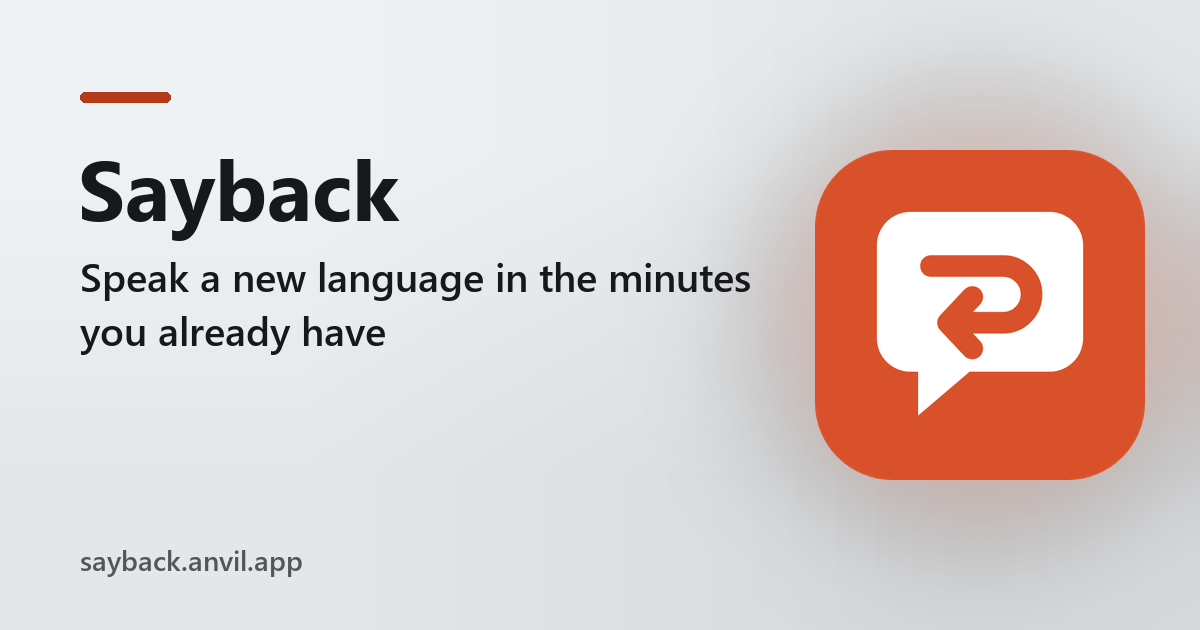
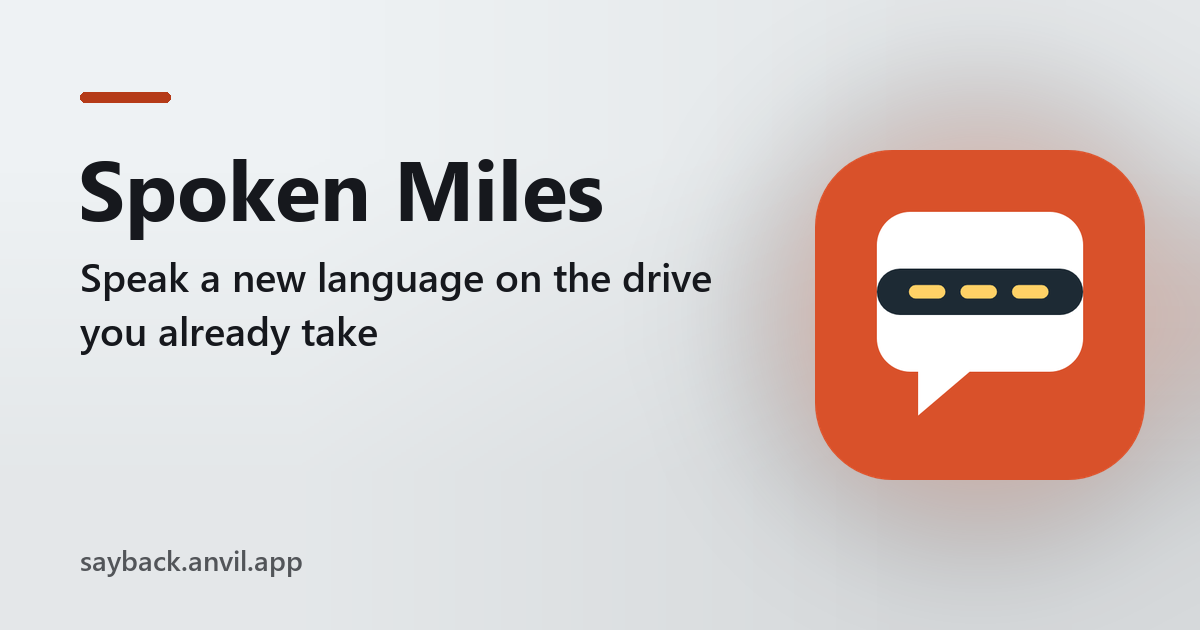
SEO: search and share tags, robots.txt, sitemap.xml, llms.txt, /about

diff --git a/server_code/seo_routes.py b/server_code/seo_routes.py
@@ -14,57 +14,63 @@ except ImportError:  # seo.py imports this file outside Anvil to render previews
     anvil = None
 
 SEO = {
- "name": "Sayback",
- "title": "Sayback: speak Spanish on the drive you already take",
- "tagline": "Speak a new language in the minutes you already have",
- "description": "45-minute hands-free audio lessons for the car and the kitchen. Hear it in English, say it in Spanish, out loud. 150 lessons. Lesson 1 is free.",
+ "name": "Spoken Miles",
+ "title": "Spoken Miles: learn Spanish, French or Italian in your car",
+ "tagline": "Speak a new language on the drive you already take",
+ "description": "45-minute hands-free audio lessons for the car: hear English, say it in Spanish, French or Italian. Lifetime access, works offline. Lesson 1 free.",
  "keywords": [
   "learn spanish in the car",
-  "spanish audio lessons",
-  "spanish for commuters",
-  "hands-free spanish course",
-  "learn spanish while driving",
+  "learn french in the car",
+  "learn italian in the car",
+  "language lessons for commuters",
+  "audio language course for driving",
+  "learn a language while driving",
   "speak spanish out loud",
-  "spaced repetition audio course",
-  "aprender inglés en el carro",
-  "curso de inglés en audio",
-  "inglés para hispanohablantes"
+  "pimsleur alternative",
+  "duolingo alternative for speaking",
+  "language course gift for dad",
+  "lifetime language course",
+  "aprender inglés en el carro"
  ],
  "type": "Service",
  "category": "EducationalApplication",
- "audience": "Busy adults who want to speak Spanish (or, in Spanish, English) and only have the commute, chores and walks to practise in",
+ "audience": "Adults who drive (commuters, parents on the school run, road-trippers) and want to actually speak Spanish, French or Italian, plus people looking for a gift for a parent who has always wanted to learn",
  "about": [
-  "Sayback is a pair of audio courses built for stolen minutes: the drive to work, the dishes, the laundry, the dog walk. Every lesson is exactly 45 minutes. You hear a phrase in your own language, a pause gives you time to say it out loud in the new language, and then you hear the answer. New phrases come back at growing intervals, the spaced-recall method published by the linguist Paul Pimsleur, so they stick without any homework or screen.",
-  "Sayback Spanish teaches English speakers Spanish; Sayback Inglés teaches Spanish speakers English, with the same phrases and culture notes that explain each side to the other. Five levels of 30 lessons go from first greetings to regional slang and friendly debate: 150 lessons and 3,000 phrases per course, each with a real-life situation, a feeling to express and a culture moment. Lessons play in the app (it remembers where you stopped, works from the lock screen and has a car mode with one giant button) or download as MP3s with transcripts."
+  "Spoken Miles is a set of audio language courses built for the car. Every lesson is exactly 45 minutes: you hear a phrase in English, a pause gives you time to say it out loud in the new language, and then you hear the answer. New phrases come back at growing intervals, the spaced-recall method published by the linguist Paul Pimsleur, so they stick without a screen or homework. Unlike tap-and-streak apps, every lesson is spoken: 250 to 320 phrases come out of your own mouth each time.",
+  "Courses: Spanish, French and Italian for English speakers, and English for Spanish speakers. Five levels of 30 lessons go from first greetings to regional culture and friendly debate: 150 lessons and about 3,000 phrases per language, each lesson with a real-life situation, a feeling to express and a culture moment. Pay once for lifetime access; stream the lessons, save a pack, a level or the whole course on your phone for drives with no signal, or download the MP3s. Courses can be given as a gift with a printable card."
  ],
  "features": [
-  "150 lessons of exactly 45 minutes per course, in five levels",
-  "Hear it in your language, say it out loud, then hear the answer",
+  "Spanish, French and Italian for English speakers; English for Spanish speakers",
+  "150 lessons of exactly 45 minutes per language, in five levels",
+  "Hear it in English, say it out loud, then hear the answer",
   "Spaced recall: every phrase returns just before you would forget it",
-  "A real situation, a feeling and a culture moment in every lesson",
-  "A woman's and a man's voice, so you hear how phrases change with the speaker",
-  "Car mode: one huge play button, lock-screen and car controls",
-  "Saved position, a weekly minutes count and a day streak",
-  "Phrase sheet for every lesson with a quiz-yourself mode",
-  "Download the MP3s and transcripts for any player or USB stick",
-  "Lesson 1 free with an account; pay once, no subscription"
+  "Made for the car: car mode with one big button, lock-screen and car-display controls",
+  "Trip length: stop at 15 or 30 minutes and pick up there next drive",
+  "Works offline: save 5 lessons, a level or the whole course on your phone",
+  "Pay once, lifetime access; MP3 downloads for CarPlay or a USB stick",
+  "Give it as a gift: a card to print or a link to send",
+  "Lesson 1 free with an account"
  ],
  "faq": [
   [
+   "How is this different from Duolingo?",
+   "Duolingo is great for vocabulary and a daily habit, but most of the time you read and tap. Spoken Miles is all speaking: hundreds of phrases out loud in every lesson, timed so they move into long-term memory."
+  ],
+  [
    "Is it safe to use while driving?",
-   "Sayback is audio only and never asks you to look at anything. Speaking out loud is like talking to a passenger. Keep your attention on the road and pause when traffic needs you."
+   "It is audio only and never asks you to look at anything. Speaking out loud is like talking to a passenger. Keep your attention on the road and pause when traffic needs you."
   ],
   [
-   "Which Spanish does it teach?",
-   "Clear, neutral Spanish understood everywhere, using ustedes rather than Spain-only vosotros, with culture notes on Spain, Mexico and South America and regional flavour in Level 5."
+   "Does it work without a signal?",
+   "Yes. Save lessons on your phone (a pack of five, a level or the whole course, about 3.2 GB) and they play with no signal."
   ],
   [
-   "How long until I can have a conversation?",
-   "By the end of Level 1, about six weeks of workday commutes, you can handle greetings, cafés, shops, directions, hotels, small talk and invitations."
+   "Is it a subscription?",
+   "No. You pay once and the lessons are yours for life."
   ],
   [
-   "Who are the voices?",
-   "Natural-sounding AI voices: a woman and a man for each language."
+   "Can I give it as a gift?",
+   "Yes. Buy it as a gift, add a name and a message, then print the card or send the link."
   ],
   [
    "Can I try it first?",
@@ -73,7 +79,7 @@ SEO = {
  ],
  "free": False,
  "site": "https://sayback.anvil.app",
- "updated": "2026-11-16",
+ "updated": "2026-11-23",
  "icon": "icon-512.png",
  "colors": {
   "bg": "#eef2f4",
@@ -125,8 +131,14 @@ def robots_txt(o):
     return "\n".join(lines)
 
 
+def guides():
+    """Optional extra crawlable pages (facts "guides"): plain HTML served by this module, listed in the sitemap."""
+    return SEO.get("guides") or []
+
+
 def sitemap_xml(o):
-    urls = [("/", "1.0"), ("/about", "0.8")] + [(p, "0.6") for p in SEO.get("sitemap_extra", [])]
+    urls = [("/", "1.0"), ("/about", "0.8")] + [(g["path"], "0.7") for g in guides()]
+    urls += [(p, "0.6") for p in SEO.get("sitemap_extra", [])]
     rows = ["<url><loc>%s%s</loc><lastmod>%s</lastmod><priority>%s</priority></url>"
             % (html.escape(o), html.escape(p), SEO["updated"], pr) for p, pr in urls]
     return ('<?xml version="1.0" encoding="UTF-8"?>\n<urlset xmlns="http://www.sitemaps.org/schemas/sitemap/0.9">\n'
@@ -136,6 +148,8 @@ def sitemap_xml(o):
 def llms_txt(o):
     s = SEO
     out = ["# %s" % s["name"], "", "> %s" % s["description"], ""]
+    if s.get("disambiguation"):
+        out += [s["disambiguation"], ""]
     out += [p for para in s.get("about", []) for p in (para, "")]
     if s.get("audience"):
         out += ["Who it's for: %s" % s["audience"], ""]
@@ -147,8 +161,11 @@ def llms_txt(o):
             out += ["### %s" % q, "", a, ""]
     out += ["## Links", "", "- [Open %s](%s/)" % (s["name"], o), "- [About %s](%s/about)" % (s["name"], o),
             "- Made by [Arkvital](https://arkvital.com), Montreal, Canada (arkvital@outlook.com)", ""]
-    if s.get("pages"):  # more pages worth reading: [title, path]
-        out += ["## Pages", ""] + ["- [%s](%s%s)" % (n, o, p) for n, p in s["pages"]] + [""]
+    pages = [[g["title"], g["path"]] for g in guides()] + list(s.get("pages") or [])
+    if pages:  # more pages worth reading: [title, path]
+        out += ["## Pages", ""] + ["- [%s](%s%s)" % (n, o, p) for n, p in pages] + [""]
+    if s.get("same_as"):
+        out += ["## %s elsewhere" % s["name"], ""] + ["- %s" % u for u in s["same_as"]] + [""]
     if s.get("keywords"):
         out += ["Keywords: %s" % ", ".join(s["keywords"]), ""]
     if s.get("updated"):
@@ -177,6 +194,8 @@ def noscript_html(o):
     """
     s, e = SEO, html.escape
     t = ["<noscript><div class=\"seo-noscript\">", "<h1>%s</h1>" % e(s["title"]), "<p>%s</p>" % e(s["description"])]
+    if s.get("disambiguation"):
+        t.append("<p>%s</p>" % e(s["disambiguation"]))
     t += ["<p>%s</p>" % e(p) for p in s.get("about", [])]
     if s.get("audience"):
         t.append("<p>Who it's for: %s</p>" % e(s["audience"]))
@@ -184,6 +203,9 @@ def noscript_html(o):
         t.append("<h2>What it does</h2><ul>%s</ul>" % "".join("<li>%s</li>" % e(f) for f in s["features"]))
     if s.get("faq"):
         t.append("<h2>Questions</h2>" + "".join("<h3>%s</h3><p>%s</p>" % (e(q), e(a)) for q, a in s["faq"]))
+    if guides():
+        t.append("<h2>Guides</h2><ul>%s</ul>" % "".join("<li><a href=\"%s%s\">%s</a></li>" % (e(o), e(g["path"]), e(g["title"]))
+                                                       for g in guides()))
     t.append("<p><a href=\"%s/about\">About %s</a> &middot; <a href=\"%s/llms.txt\">%s for AI assistants</a> &middot; "
              "Made by <a href=\"https://arkvital.com\">Arkvital</a>, Montreal, Canada. "
              "%s needs JavaScript in your browser.</p>" % (e(o), e(s["name"]), e(o), e(s["name"]), e(s["name"])))
@@ -226,11 +248,21 @@ def _ld(o):
         app["offers"] = {"@type": "Offer", "price": "0", "priceCurrency": "CAD"}
     if s.get("audience") and app["@type"] != "ProfessionalService":
         app["audience"] = {"@type": "Audience", "audienceType": s["audience"]}
+    # brand signals (optional facts): other names people use, a "not to be confused with" line, official profiles
+    if s.get("alternate_names"):
+        app["alternateName"] = s["alternate_names"]
+    if s.get("disambiguation"):
+        app["disambiguatingDescription"] = s["disambiguation"]
+    if s.get("same_as"):
+        app["sameAs"] = s["same_as"]
+        app["logo"] = o + "/_/theme/" + s.get("icon", "og-image.png")
     page = {"@type": "AboutPage", "@id": o + "/about#page", "url": o + "/about", "name": "About " + s["name"],
             "about": {"@id": app["@id"]}, "isPartOf": {"@id": site_id}}
-    graph = [app, page, {"@type": "WebSite", "@id": site_id, "url": o + "/", "name": s["name"],
-                         "publisher": {"@id": app["@id"] if app["@type"] == "ProfessionalService"
-                                       else "https://arkvital.com/#org"}},
+    site = {"@type": "WebSite", "@id": site_id, "url": o + "/", "name": s["name"],
+            "publisher": {"@id": app["@id"] if app["@type"] == "ProfessionalService" else "https://arkvital.com/#org"}}
+    if s.get("alternate_names"):  # Google reads WebSite name + alternateName for the site name shown in results
+        site["alternateName"] = s["alternate_names"]
+    graph = [app, page, site,
              {"@type": "Organization", "@id": "https://arkvital.com/#org", "name": "Arkvital", "url": "https://arkvital.com",
               "email": "arkvital@outlook.com", "address": {"@type": "PostalAddress", "addressLocality": "Montreal",
                                                            "addressRegion": "QC", "addressCountry": "CA"}}]
@@ -240,9 +272,31 @@ def _ld(o):
     return json.dumps({"@context": "https://schema.org", "@graph": graph}, ensure_ascii=False).replace("</", "<\\/")
 
 
+_STYLE = """<style>
+:root{--bg:%(bg)s;--ink:%(ink)s;--brand:%(brand)s;--on:%(on)s;--page:#ffffff;--text:#1d1f24;--muted:#5b616e;--line:#e4e6eb}
+@media (prefers-color-scheme: dark){:root{--page:#121317;--text:#eceef2;--muted:#a3a9b6;--line:#2a2d35}}
+*{box-sizing:border-box}body{margin:0;background:var(--page);color:var(--text);font:17px/1.6 system-ui,-apple-system,"Segoe UI",Roboto,sans-serif}
+header{background:var(--bg);color:var(--ink);padding:40px 16px 36px}
+.wrap{max-width:760px;margin:0 auto}
+.brand{display:flex;align-items:center;gap:14px;font-weight:700;font-size:20px}
+.brand img{width:52px;height:52px;border-radius:12px}
+h1{font-size:clamp(28px,5vw,40px);line-height:1.15;margin:22px 0 12px}
+.lead{font-size:19px;margin:0 0 24px;opacity:.9}
+.cta{display:inline-block;background:var(--brand);color:var(--on);padding:12px 22px;border-radius:999px;font-weight:700;text-decoration:none}
+main{padding:24px 16px 48px}h2{margin:36px 0 10px;font-size:24px}h3{margin:22px 0 4px;font-size:18px}
+ul{padding-left:22px}li{margin:6px 0}.who{color:var(--muted)}a{color:inherit}
+footer{border-top:1px solid var(--line);padding:22px 16px;color:var(--muted);font-size:15px}
+</style>"""
+
+
+def _style():
+    c = SEO.get("colors", {})
+    return _STYLE % {"bg": c.get("bg", "#1d1f24"), "ink": c.get("ink", "#ffffff"), "brand": c.get("brand", "#2f6fed"),
+                     "on": c.get("on", "#ffffff")}
+
+
 def about_html(o):
     s, e = SEO, html.escape
-    c = s.get("colors", {})
     paras = "".join("<p>%s</p>" % e(p) for p in s.get("about", []))
     feats = "".join("<li>%s</li>" % e(f) for f in s.get("features", []))
     faq = "".join("<h3>%s</h3><p>%s</p>" % (e(q), e(a)) for q, a in s.get("faq", []))
@@ -260,21 +314,7 @@ def about_html(o):
 <meta name="twitter:card" content="summary_large_image">
 <link rel="icon" href="%(o)s/_/theme/%(icon)s">
 <script type="application/ld+json">%(ld)s</script>
-<style>
-:root{--bg:%(bg)s;--ink:%(ink)s;--brand:%(brand)s;--on:%(on)s;--page:#ffffff;--text:#1d1f24;--muted:#5b616e;--line:#e4e6eb}
-@media (prefers-color-scheme: dark){:root{--page:#121317;--text:#eceef2;--muted:#a3a9b6;--line:#2a2d35}}
-*{box-sizing:border-box}body{margin:0;background:var(--page);color:var(--text);font:17px/1.6 system-ui,-apple-system,"Segoe UI",Roboto,sans-serif}
-header{background:var(--bg);color:var(--ink);padding:40px 16px 36px}
-.wrap{max-width:760px;margin:0 auto}
-.brand{display:flex;align-items:center;gap:14px;font-weight:700;font-size:20px}
-.brand img{width:52px;height:52px;border-radius:12px}
-h1{font-size:clamp(28px,5vw,40px);line-height:1.15;margin:22px 0 12px}
-.lead{font-size:19px;margin:0 0 24px;opacity:.9}
-.cta{display:inline-block;background:var(--brand);color:var(--on);padding:12px 22px;border-radius:999px;font-weight:700;text-decoration:none}
-main{padding:24px 16px 48px}h2{margin:36px 0 10px;font-size:24px}h3{margin:22px 0 4px;font-size:18px}
-ul{padding-left:22px}li{margin:6px 0}.who{color:var(--muted)}a{color:inherit}
-footer{border-top:1px solid var(--line);padding:22px 16px;color:var(--muted);font-size:15px}
-</style></head>
+%(style)s</head>
 <body>
 <header><div class="wrap">
 <div class="brand"><img src="%(o)s/_/theme/%(icon)s" alt="" width="52" height="52">%(name)s</div>
@@ -283,20 +323,106 @@ footer{border-top:1px solid var(--line);padding:22px 16px;color:var(--muted);fon
 <a class="cta" href="%(o)s/">Open %(name)s</a>
 </div></header>
 <main><div class="wrap">
-<h2>What %(name)s is</h2>%(paras)s%(who)s
+<h2>What %(name)s is</h2>%(dis)s%(paras)s%(who)s
 %(feat_block)s
 %(faq_block)s
-<p><a class="cta" href="%(o)s/">Open %(name)s</a></p>
+%(guide_block)s<p><a class="cta" href="%(o)s/">Open %(name)s</a></p>
 </div></main>
 <footer><div class="wrap">%(name)s is made by <a href="https://arkvital.com">Arkvital</a> in Montreal, Canada.
 Questions: <a href="mailto:arkvital@outlook.com">arkvital@outlook.com</a>. A short version for AI assistants: <a href="%(o)s/llms.txt">llms.txt</a>.</div></footer>
 </body></html>
 """ % {"lang": e(s.get("lang", "en")), "name": e(s["name"]), "short": e(s.get("tagline", s["title"])),
        "desc": e(s["description"]), "kw": e(", ".join(s.get("keywords", []))), "o": e(o), "icon": e(s.get("icon", "og-image.png")),
-       "ld": _ld(o), "bg": c.get("bg", "#1d1f24"), "ink": c.get("ink", "#ffffff"), "brand": c.get("brand", "#2f6fed"),
-       "on": c.get("on", "#ffffff"), "title": e(s["title"]), "paras": paras, "who": who,
+       "ld": _ld(o), "style": _style(), "title": e(s["title"]), "paras": paras, "who": who,
+       "dis": ("<p>%s</p>" % e(s["disambiguation"])) if s.get("disambiguation") else "",
+       "guide_block": _guide_list(o) + "\n" if guides() else "",
        "feat_block": ("<h2>What you can do</h2><ul>%s</ul>" % feats) if feats else "",
        "faq_block": ("<h2>Questions</h2>%s" % faq) if faq else ""}
+
+
+def _guide_list(o, skip=None):
+    e = html.escape
+    items = "".join('<li><a href="%s%s">%s</a></li>' % (e(o), e(g["path"]), e(g["title"]))
+                    for g in guides() if g["path"] != skip)
+    return "<h2>%s</h2><ul>%s</ul>" % ("More guides" if skip else "Guides", items) if items else ""
+
+
+def _table(t):
+    """{"head": [...], "rows": [[...], ...]} -> an HTML table (first column as row headers)."""
+    e = html.escape
+    head = "".join("<th scope=\"col\">%s</th>" % e(h) for h in t.get("head", []))
+    rows = "".join("<tr><th scope=\"row\">%s</th>%s</tr>" % (e(r[0]), "".join("<td>%s</td>" % e(c) for c in r[1:]))
+                   for r in t.get("rows", []))
+    cap = "<caption>%s</caption>" % e(t["caption"]) if t.get("caption") else ""
+    return "<div class=\"tbl\"><table>%s<thead><tr>%s</tr></thead><tbody>%s</tbody></table></div>" % (cap, head, rows)
+
+
+def guide_ld(o, g):
+    """The site graph plus this page as a WebPage about the app (same @ids, so it is one entity everywhere)."""
+    s = SEO
+    ld = json.loads(_ld(o))
+    ld["@graph"] = [n for n in ld["@graph"] if n["@type"] not in ("AboutPage", "FAQPage")]
+    ld["@graph"].insert(0, {"@type": "WebPage", "@id": o + g["path"] + "#page", "url": o + g["path"], "name": g["title"],
+                            "description": g["description"], "inLanguage": s.get("lang", "en"),
+                            "isPartOf": {"@id": o + "/#site"}, "about": {"@id": o + "/#app"},
+                            "dateModified": s.get("updated")})
+    if g.get("faq"):
+        ld["@graph"].append({"@type": "FAQPage", "@id": o + g["path"] + "#faq", "mainEntity": [
+            {"@type": "Question", "name": q, "acceptedAnswer": {"@type": "Answer", "text": a}} for q, a in g["faq"]]})
+    return json.dumps(ld, ensure_ascii=False).replace("</", "<\\/")
+
+
+def guide_html(o, g):
+    """One guide page: facts "guides" entry {path, title, description, h1?, intro: [p], sections: [{h2, paras, table}], faq}."""
+    s, e = SEO, html.escape
+    body = "".join("<p>%s</p>" % e(p) for p in g.get("intro", []))
+    for sec in g.get("sections", []):
+        body += "<h2>%s</h2>" % e(sec["h2"])
+        body += "".join("<p>%s</p>" % e(p) for p in sec.get("paras", []))
+        if sec.get("table"):
+            body += _table(sec["table"])
+        body += "".join("<p>%s</p>" % e(p) for p in sec.get("after", []))
+    if g.get("faq"):
+        body += "<h2>Questions</h2>" + "".join("<h3>%s</h3><p>%s</p>" % (e(q), e(a)) for q, a in g["faq"])
+    about = "<h2>About %s</h2><p>%s</p>" % (e(s["name"]), e(s["description"]))
+    if s.get("disambiguation"):
+        about += "<p>%s</p>" % e(s["disambiguation"])
+    return """<!doctype html>
+<html lang="%(lang)s"><head><meta charset="utf-8"><meta name="viewport" content="width=device-width, initial-scale=1">
+<title>%(title)s | %(name)s</title>
+<meta name="description" content="%(desc)s">
+<link rel="canonical" href="%(o)s%(path)s">
+<meta name="robots" content="index, follow, max-image-preview:large, max-snippet:-1">
+<meta property="og:type" content="article"><meta property="og:site_name" content="%(name)s">
+<meta property="og:title" content="%(title)s"><meta property="og:description" content="%(desc)s">
+<meta property="og:url" content="%(o)s%(path)s"><meta property="og:image" content="%(o)s/_/theme/og-image.png">
+<meta name="twitter:card" content="summary_large_image">
+<link rel="icon" href="%(o)s/_/theme/%(icon)s">
+<script type="application/ld+json">%(ld)s</script>
+%(style)s
+<style>.tbl{overflow-x:auto;margin:14px 0}table{border-collapse:collapse;width:100%%;font-size:16px}
+th,td{text-align:left;vertical-align:top;padding:8px 10px;border-bottom:1px solid var(--line)}thead th{font-size:14px;color:var(--muted)}
+caption{text-align:left;color:var(--muted);font-size:14px;padding-bottom:6px}nav.crumbs{font-size:15px;margin-bottom:6px;opacity:.85}</style></head>
+<body>
+<header><div class="wrap">
+<div class="brand"><img src="%(o)s/_/theme/%(icon)s" alt="" width="52" height="52">%(name)s</div>
+<h1>%(h1)s</h1>
+<p class="lead">%(desc)s</p>
+<a class="cta" href="%(o)s/">Practise this in %(name)s</a>
+</div></header>
+<main><div class="wrap">
+<nav class="crumbs"><a href="%(o)s/">%(name)s</a> &rsaquo; <a href="%(o)s/about">About</a> &rsaquo; %(title)s</nav>
+%(body)s
+%(about)s
+%(more)s
+<p><a class="cta" href="%(o)s/">Open %(name)s</a></p>
+</div></main>
+<footer><div class="wrap">%(name)s is made by <a href="https://arkvital.com">Arkvital</a> in Montreal, Canada.
+Questions: <a href="mailto:arkvital@outlook.com">arkvital@outlook.com</a>. A short version for AI assistants: <a href="%(o)s/llms.txt">llms.txt</a>.</div></footer>
+</body></html>
+""" % {"lang": e(s.get("lang", "en")), "name": e(s["name"]), "title": e(g["title"]), "h1": e(g.get("h1", g["title"])),
+       "desc": e(g["description"]), "o": e(o), "path": e(g["path"]), "icon": e(s.get("icon", "og-image.png")),
+       "ld": guide_ld(o, g), "style": _style(), "body": body, "about": about, "more": _guide_list(o, g["path"])}
 
 
 def _file(text, ctype):
@@ -329,6 +455,15 @@ if ROUTE:  # the Python 3.10+ server runtimes have it; older ones serve nothing 
     @ROUTE("/about")
     def seo_about(**params):
         return _file(about_html(origin()), "text/html; charset=utf-8")
+
+    def _guide_route(i, g):
+        def seo_guide(**params):
+            return _file(guide_html(origin(), g), "text/html; charset=utf-8")
+        seo_guide.__name__ = "seo_guide_%d" % i
+        return ROUTE(g["path"])(seo_guide)
+
+    for _i, _g in enumerate(guides()):
+        _guide_route(_i, _g)
 
     def _verify_route(i, path, ctype, body):
         def seo_verify(**params):
